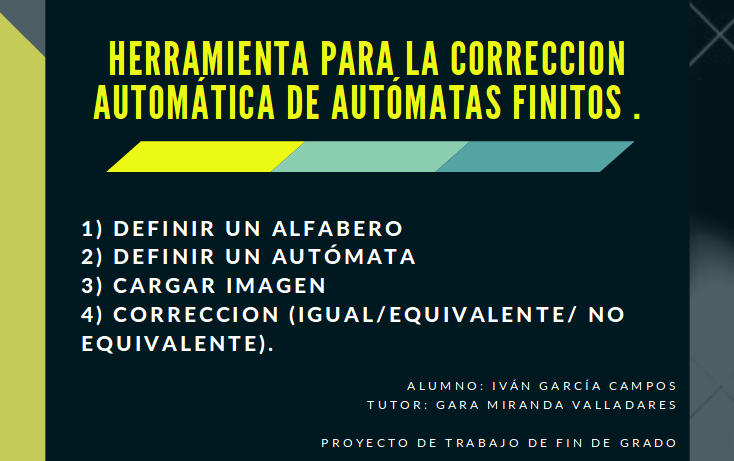
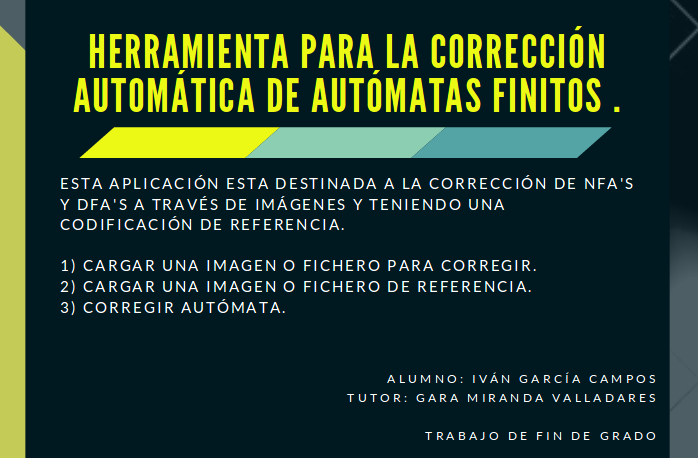
Avanzando, queda documentacion, funcionalidad botones, usabilidad y ejemplos

Changed region(s): [[0.0, 0.0, 0.9026, 1.0], [0.4212, 0.4891, 0.9628, 1.0], [0.9327, 0.0, 1.0, 0.1528]]

diff --git a/CAplicacion.cpp b/CAplicacion.cpp
@@ -248,6 +248,8 @@ void CAplicacion::inicializarVentanaAplicacionDeteccion() {
     getPanelPrincipal()->setAlignment(Qt::AlignCenter);
     getPanelPrincipal()->setStyleSheet("background-color: beige; border-style: outset; border-width: 2px; border-radius: 10px; border-color: black; font: bold 14px; padding: 6px;");
 
+    //Borramos los posibles datos de los clineedit
+
     //getLayout()->removeWidget(getPanelComparacion());
     //getPanelComparacion()->clear();
     getLayout()->addWidget(getPanelComparacion(), 0, 0, 3, 4);
@@ -344,8 +346,15 @@ void CAplicacion::slotAbrirFichero() {
             if(getPosActualPanelOpciones() == 3) {
                 connect(getPanelOpciones()->getCargarImagenReferencia(), SIGNAL(clicked()), this, SLOT(slotAbrirImagenReferencia()));
                 connect(getPanelOpciones()->getCargarFicheroReferencia(), SIGNAL(clicked()), this, SLOT(slotAbrirFicheroCorrecto()));
-
+                connect(getPanelOpciones()->getAnalizarCadena(), SIGNAL(clicked()), this, SLOT(slotAnalizarCadena()));
+                connect(getPanelOpciones()->getSimplificarFicheroCorregir(), SIGNAL(clicked()), this, SLOT(slotSimplificarFicheroCorregir()));
+                connect(getPanelOpciones()->getSimplificarFicheroReferencia(), SIGNAL(clicked()), this, SLOT(slotSimplificarFicheroReferencia()));
+                connect(getPanelOpciones()->getCorregirFichero(), SIGNAL(clicked()), this, SLOT(slotCorregirFinal()));
+            } else if(getPosActualPanelOpciones() == 1) {
+                connect(getPanelOpciones()->getAnalizarCadena(), SIGNAL(clicked()), this, SLOT(slotAnalizarCadena()));
+                connect(getPanelOpciones()->getSimplificarFicheroCorregir(), SIGNAL(clicked()), this, SLOT(slotSimplificarFicheroCorregir()));
             }
+
             //poner analizar cadena y simplificar
         } else {
             getPanelComparacion()->setText(line);
@@ -362,7 +371,10 @@ void CAplicacion::slotAbrirFichero() {
             if(getPosActualPanelOpciones() == 3) {
                 connect(getPanelOpciones()->getCargarImagenCorregir(), SIGNAL(clicked()), this, SLOT(slotAbrirImagen()));
                 connect(getPanelOpciones()->getCargarFicheroCorregir(), SIGNAL(clicked()), this, SLOT(slotAbrirFichero()));
-
+                connect(getPanelOpciones()->getAnalizarCadena(), SIGNAL(clicked()), this, SLOT(slotAnalizarCadena()));
+                connect(getPanelOpciones()->getSimplificarFicheroCorregir(), SIGNAL(clicked()), this, SLOT(slotSimplificarFicheroCorregir()));
+                connect(getPanelOpciones()->getSimplificarFicheroReferencia(), SIGNAL(clicked()), this, SLOT(slotSimplificarFicheroReferencia()));
+                connect(getPanelOpciones()->getCorregirFichero(), SIGNAL(clicked()), this, SLOT(slotCorregirFinal()));
             }
 
             //poner simplificar
@@ -606,49 +618,56 @@ void CAplicacion::slotDetectarCirculos() {
 void CAplicacion::slotDetectarLineas() {
     if(getNodoInicio()->text().isEmpty() || getNodosFinales()->text().isEmpty()) {
         QMessageBox mensaje;
-        mensaje.setText("Recuerde introducir el nodo inicio y los nodos finales. \nRecuerde configurar el alfabeto.");
+        mensaje.setText("Recuerde introducir el nodo inicio y los nodos finales. \n Solo habŕa un estado inicial \nRecuerde configurar el alfabeto.");
         mensaje.setIcon(QMessageBox::Warning);
         mensaje.exec();
     } else {
-        Mat resultado = getOperacionesImagen()->QImage2Mat(getPanelPrincipal()->getImagen());
-        Mat aux = imread(getPathImagenActual().toUtf8().constData(), IMREAD_COLOR );
-        getOperacionesImagen()->detectarLineas()->iniciarDeteccion(aux, getPanelOpciones()->getHoughLinesP()->value());
+        if(getNodoInicio()->text().size() > 2){
+            cout << "Error" << endl;
+            QMessageBox mensaje;
+            mensaje.setText("Recuerde introducir el nodo inicio y los nodos finales. \nSolo habŕa un estado inicial \nRecuerde configurar el alfabeto.");
+            mensaje.setIcon(QMessageBox::Warning);
+            mensaje.exec();
+        } else {
+            Mat resultado = getOperacionesImagen()->QImage2Mat(getPanelPrincipal()->getImagen());
+            Mat aux = imread(getPathImagenActual().toUtf8().constData(), IMREAD_COLOR );
+            getOperacionesImagen()->detectarLineas()->iniciarDeteccion(aux, getPanelOpciones()->getHoughLinesP()->value());
 
-        for( size_t i = 0; i <  getOperacionesImagen()->detectarLineas()->getLineasDetectadas().size(); i++ ) {
-            Vec4i l =  getOperacionesImagen()->detectarLineas()->getLineasDetectadas().at(i);
-            line( resultado, Point(l[0], l[1]), Point(l[2], l[3]), Scalar(255,0,0), 3, LINE_AA);
+            for( size_t i = 0; i <  getOperacionesImagen()->detectarLineas()->getLineasDetectadas().size(); i++ ) {
+                Vec4i l =  getOperacionesImagen()->detectarLineas()->getLineasDetectadas().at(i);
+                line( resultado, Point(l[0], l[1]), Point(l[2], l[3]), Scalar(255,0,0), 3, LINE_AA);
+            }
+            getPanelPrincipal()->setImagen(getOperacionesImagen()->Mat2QImage(resultado));
+
+            getActionDetectarLineas()->setDisabled(true);
+            getActionDetectarTransiciones()->setDisabled(false);
         }
-        getPanelPrincipal()->setImagen(getOperacionesImagen()->Mat2QImage(resultado));
-
-        getActionDetectarLineas()->setDisabled(true);
-        getActionDetectarTransiciones()->setDisabled(false);
     }
 }
 
 void CAplicacion::slotDetectarTransiciones() {
-
-    Mat resultado = getOperacionesImagen()->QImage2Mat(getPanelPrincipal()->getImagen());
-    Mat aux = imread(getPathImagenActual().toUtf8().constData(), IMREAD_COLOR );
-
     if(getAlfabetoActual()->currentIndex() == 0) {
         QMessageBox mensaje;
         mensaje.setText("Recuerde introducir el alfabeto del autómata.");
         mensaje.setIcon(QMessageBox::Warning);
         mensaje.exec();
     } else {
+        Mat resultado = getOperacionesImagen()->QImage2Mat(getPanelPrincipal()->getImagen());
+        Mat aux = imread(getPathImagenActual().toUtf8().constData(), IMREAD_COLOR );
+
         getActionProcesarImagen()->setEnabled(true);
 
-    getOperacionesImagen()->detectarTransiciones()->ejecutar(aux, getAlfabetoActual()->currentIndex());
+        getOperacionesImagen()->detectarTransiciones()->ejecutar(aux, getAlfabetoActual()->currentIndex());
 
-    for (size_t i = 0; i < getOperacionesImagen()->detectarTransiciones()->getContornosEncontrados().size(); i++) {
-        cv::rectangle(resultado,                            // draw rectangle on original image
-                      getOperacionesImagen()->detectarTransiciones()->getContornosEncontrados().at(i).dimensionContorno,        // rect to draw
-                      cv::Scalar(0, 255, 0),                        // green
-                      2);
-    }
-    getPanelPrincipal()->setImagen(getOperacionesImagen()->Mat2QImage(resultado));
-    getActionDetectarTransiciones()->setDisabled(true);
-    getActionCodificarImagen()->setEnabled(true);
+        for (size_t i = 0; i < getOperacionesImagen()->detectarTransiciones()->getContornosEncontrados().size(); i++) {
+            cv::rectangle(resultado,                            // draw rectangle on original image
+                          getOperacionesImagen()->detectarTransiciones()->getContornosEncontrados().at(i).dimensionContorno,        // rect to draw
+                          cv::Scalar(0, 255, 0),                        // green
+                          2);
+        }
+        getPanelPrincipal()->setImagen(getOperacionesImagen()->Mat2QImage(resultado));
+        getActionDetectarTransiciones()->setDisabled(true);
+        getActionCodificarImagen()->setEnabled(true);
     }
 }
 
@@ -673,15 +692,24 @@ void CAplicacion::slotProcesarImagen() {
         getActionProcesarImagen()->setEnabled(true);
     } else {
         slotDetectarLineas();
-        slotDetectarTransiciones();
-        if(getNodoInicio()->text().isEmpty() || getNodosFinales()->text().isEmpty()) {
+
+        if(getAlfabetoActual()->currentIndex() == 0) {
             QMessageBox mensaje;
-            mensaje.setText("Recuerde introducir el nodo inicio y los nodos finales. \n\nPulse a continuación el botón Codificar Imagen.");
+            mensaje.setText("Recuerde introducir el alfabeto del autómata.");
             mensaje.setIcon(QMessageBox::Warning);
             mensaje.exec();
             getActionProcesarImagen()->setEnabled(true);
         } else {
-            slotCodificarImagen();
+            slotDetectarTransiciones();
+            if(getNodoInicio()->text().isEmpty() || getNodosFinales()->text().isEmpty()) {
+                QMessageBox mensaje;
+                mensaje.setText("Recuerde introducir el nodo inicio y los nodos finales. \n\nPulse a continuación el botón Codificar Imagen.");
+                mensaje.setIcon(QMessageBox::Warning);
+                mensaje.exec();
+                getActionProcesarImagen()->setEnabled(true);
+            } else {
+                slotCodificarImagen();
+            }
         }
     }
 }
@@ -706,7 +734,7 @@ void CAplicacion::slotAbrirFicheroCorrecto() {
         cout << "Mostrando aux " << getPosActualPanelOpciones() << endl;
         if(getPosActualPanelOpciones() == 0)
             posActualPanelOpciones_ = 2;
-        else if(getPosActualPanelOpciones() == 2)
+        else if(getPosActualPanelOpciones() == 1)
             posActualPanelOpciones_ = 3;
         getPanelOpciones()->iniciarVistaCorreccion(getPosActualPanelOpciones());
         connect(getPanelOpciones()->getCargarImagenCorregir(), SIGNAL(clicked()), this, SLOT(slotAbrirImagen()));
@@ -715,6 +743,10 @@ void CAplicacion::slotAbrirFicheroCorrecto() {
         if(getPosActualPanelOpciones() == 3) {
             connect(getPanelOpciones()->getCargarImagenReferencia(), SIGNAL(clicked()), this, SLOT(slotAbrirImagenReferencia()));
             connect(getPanelOpciones()->getCargarFicheroReferencia(), SIGNAL(clicked()), this, SLOT(slotAbrirFicheroCorrecto()));
+            connect(getPanelOpciones()->getAnalizarCadena(), SIGNAL(clicked()), this, SLOT(slotAnalizarCadena()));
+            connect(getPanelOpciones()->getSimplificarFicheroCorregir(), SIGNAL(clicked()), this, SLOT(slotSimplificarFicheroCorregir()));
+            connect(getPanelOpciones()->getSimplificarFicheroReferencia(), SIGNAL(clicked()), this, SLOT(slotSimplificarFicheroReferencia()));
+            connect(getPanelOpciones()->getCorregirFichero(), SIGNAL(clicked()), this, SLOT(slotCorregirFinal()));
         }
     }
 }
@@ -1178,7 +1210,7 @@ void CAplicacion::checkFicheroTemporalCreado() {
                         getPanelPrincipal()->setStyleSheet("background-color: beige; border-style: outset; border-width: 2px; border-radius: 10px; border-color: black; font: bold 14px; padding: 60px;");
                         getActionAbrirFicheroCorrecto()->setDisabled(false);
                         if(getPosActualPanelOpciones() == 0)
-                        posActualPanelOpciones_ = 1;
+                            posActualPanelOpciones_ = 1;
                         else if(getPosActualPanelOpciones() == 2)
                             posActualPanelOpciones_ = 3;
                         getPanelOpciones()->iniciarVistaCorreccion(getPosActualPanelOpciones());
@@ -1194,11 +1226,11 @@ void CAplicacion::checkFicheroTemporalCreado() {
                         }
                         if(encontrado == false) {
                             if(getPosActualPanelOpciones() == 1) {
-                            posActualPanelOpciones_ = 0;
-                            getPanelOpciones()->iniciarVistaCorreccion(getPosActualPanelOpciones());
+                                posActualPanelOpciones_ = 0;
+                                getPanelOpciones()->iniciarVistaCorreccion(getPosActualPanelOpciones());
                             } else if(getPosActualPanelOpciones() == 3) {
                                 posActualPanelOpciones_ = 2;
-                                 getPanelOpciones()->iniciarVistaCorreccion(getPosActualPanelOpciones());
+                                getPanelOpciones()->iniciarVistaCorreccion(getPosActualPanelOpciones());
                             }
                         }
 
@@ -1207,6 +1239,15 @@ void CAplicacion::checkFicheroTemporalCreado() {
                         if(getPosActualPanelOpciones() == 3) {
                             connect(getPanelOpciones()->getCargarImagenReferencia(), SIGNAL(clicked()), this, SLOT(slotAbrirImagenReferencia()));
                             connect(getPanelOpciones()->getCargarFicheroReferencia(), SIGNAL(clicked()), this, SLOT(slotAbrirFicheroCorrecto()));
+                            connect(getPanelOpciones()->getAnalizarCadena(), SIGNAL(clicked()), this, SLOT(slotAnalizarCadena()));
+                            connect(getPanelOpciones()->getSimplificarFicheroCorregir(), SIGNAL(clicked()), this, SLOT(slotSimplificarFicheroCorregir()));
+                            connect(getPanelOpciones()->getSimplificarFicheroReferencia(), SIGNAL(clicked()), this, SLOT(slotSimplificarFicheroReferencia()));
+                            connect(getPanelOpciones()->getCorregirFichero(), SIGNAL(clicked()), this, SLOT(slotCorregirFinal()));
+
+                        }
+                        if(getPosActualPanelOpciones() == 1) {
+                            connect(getPanelOpciones()->getAnalizarCadena(), SIGNAL(clicked()), this, SLOT(slotAnalizarCadena()));
+                            connect(getPanelOpciones()->getSimplificarFicheroCorregir(), SIGNAL(clicked()), this, SLOT(slotSimplificarFicheroCorregir()));
 
                         }
                         getCheckUpdatesTimer()->stop();
@@ -1218,7 +1259,7 @@ void CAplicacion::checkFicheroTemporalCreado() {
                         getPanelComparacion()->setText(line);
                         getPanelComparacion()->setStyleSheet("background-color: beige; border-style: outset; border-width: 2px; border-radius: 10px; border-color: black; font: bold 14px; padding: 60px;");
                         if(getPosActualPanelOpciones() == 0)
-                        posActualPanelOpciones_ = 2;
+                            posActualPanelOpciones_ = 2;
                         else if(getPosActualPanelOpciones() == 1)
                             posActualPanelOpciones_ = 3;
                         getPanelOpciones()->iniciarVistaCorreccion(getPosActualPanelOpciones());
@@ -1228,6 +1269,10 @@ void CAplicacion::checkFicheroTemporalCreado() {
                         if(getPosActualPanelOpciones() == 3) {
                             connect(getPanelOpciones()->getCargarImagenCorregir(), SIGNAL(clicked()), this, SLOT(slotAbrirImagen()));
                             connect(getPanelOpciones()->getCargarFicheroCorregir(), SIGNAL(clicked()), this, SLOT(slotAbrirFichero()));
+                            connect(getPanelOpciones()->getAnalizarCadena(), SIGNAL(clicked()), this, SLOT(slotAnalizarCadena()));
+                            connect(getPanelOpciones()->getSimplificarFicheroCorregir(), SIGNAL(clicked()), this, SLOT(slotSimplificarFicheroCorregir()));
+                            connect(getPanelOpciones()->getSimplificarFicheroReferencia(), SIGNAL(clicked()), this, SLOT(slotSimplificarFicheroReferencia()));
+                            connect(getPanelOpciones()->getCorregirFichero(), SIGNAL(clicked()), this, SLOT(slotCorregirFinal()));
                         }
                         cargarImagenParaPanelComparacion_ = false;
                         getCheckUpdatesTimer()->stop();
@@ -1307,6 +1352,9 @@ void CAplicacion::slotCambiarPerspectiva() {
             getActionProcesarImagen()->setEnabled(true);
         }
         getPanelPrincipal()->clear();
+        getNodoInicio()->clear();
+        getNodosFinales()->clear();
+
         getActionAbrirFicheroCorrecto()->setEnabled(false);
         getActionConfirmarImagen()->setEnabled(false);
         cout << "La posicion actual es " << getPosActualPanelOpciones() << endl;
@@ -1329,11 +1377,11 @@ void CAplicacion::slotCambiarTextEliminarAnadirLinea() {
 }
 
 void CAplicacion::slotSimplificarFicheroCorregir() {
-cout << "Simplificando fichero corregir" << endl;
+    cout << "Simplificando fichero corregir" << endl;
 }
 
 void CAplicacion::slotSimplificarFicheroReferencia() {
-cout << "Simplificando fichero referencia" << endl;
+    cout << "Simplificando fichero referencia" << endl;
 }
 
 void CAplicacion::slotAnalizarCadena() {

diff --git a/CPanelOpciones.cpp b/CPanelOpciones.cpp
@@ -365,6 +365,20 @@ void CPanelOpciones::iniciarVistaCorreccion(int valor) { //opciones
         getLayout()->addWidget(getSimplificarFicheroReferencia(), 3, 2, 1, 2);
 
         corregirFichero_ = new CPushButton("Corregir Fichero", true);
+        getCorregirFichero()->setStyleSheet("background-color: rgb(154, 238, 127);"
+                                            "color: black; border-width: 1px;"
+                                            "border-top: 1px solid white;"
+                                            "border-left: 1px solid white;"
+                                            "border-right: 1px solid grey;"
+                                            "border-bottom: 1px solid grey;"
+                                            "border-style: solid; "
+                                            "border-radius: 5;"
+                                            "padding: 2px;"
+                                            "padding-left: 5px;"
+                                            "padding-right: 5px;"
+                                            "font: 16px;"
+                                            "font-weight: bold;");
+
         getLayout()->addWidget(getCorregirFichero(), 5, 0, 1, 4);
 
     }
